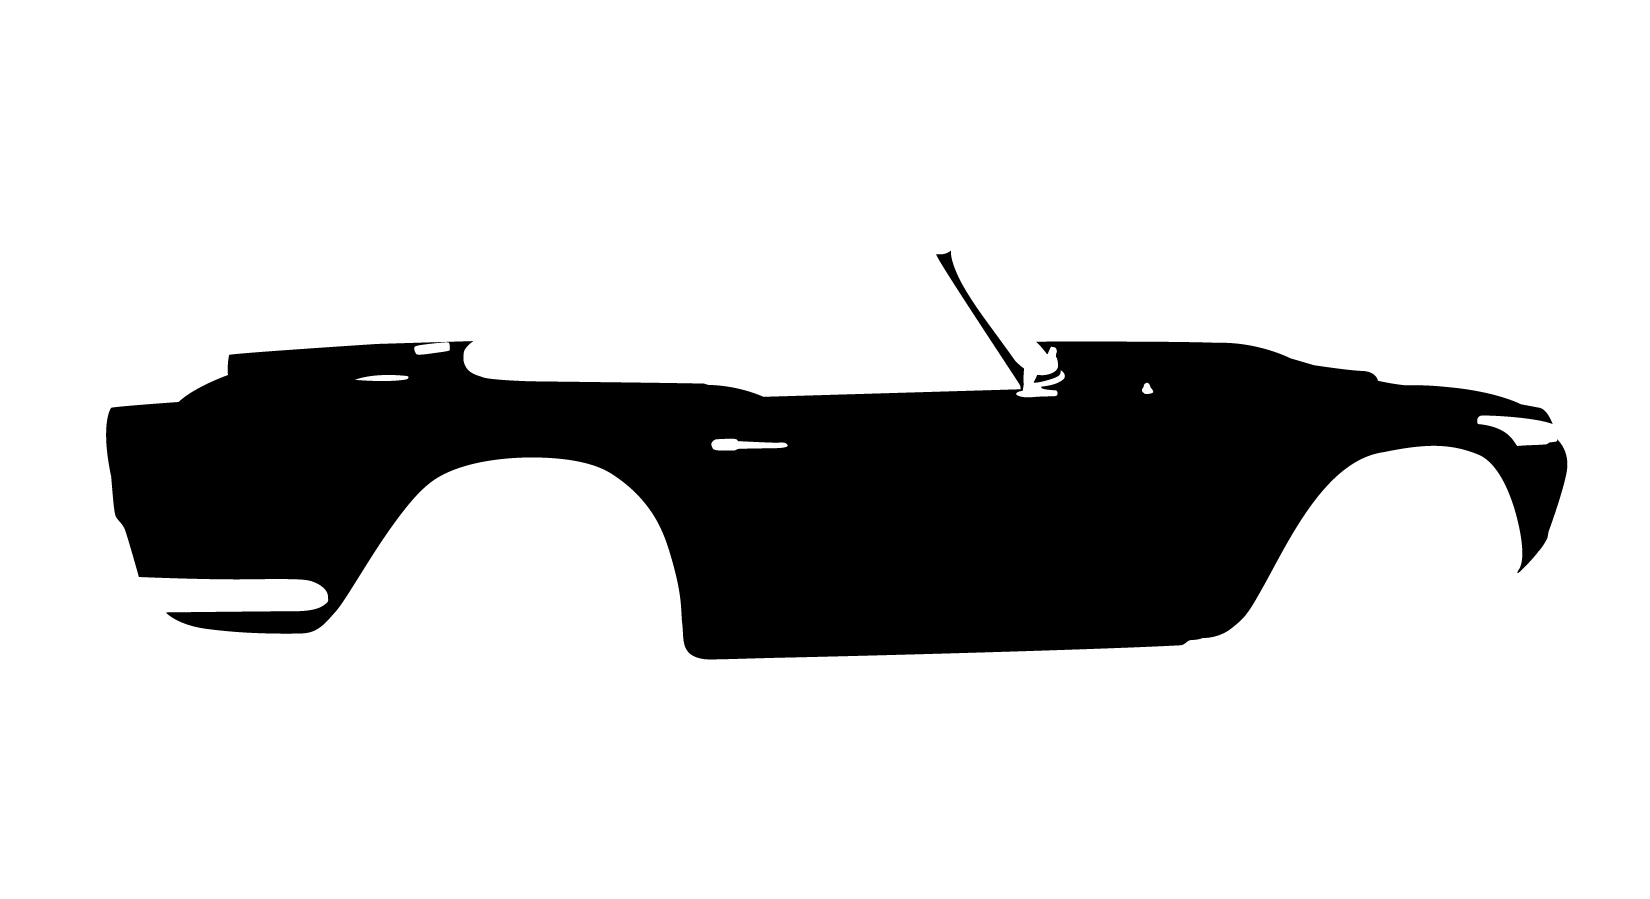
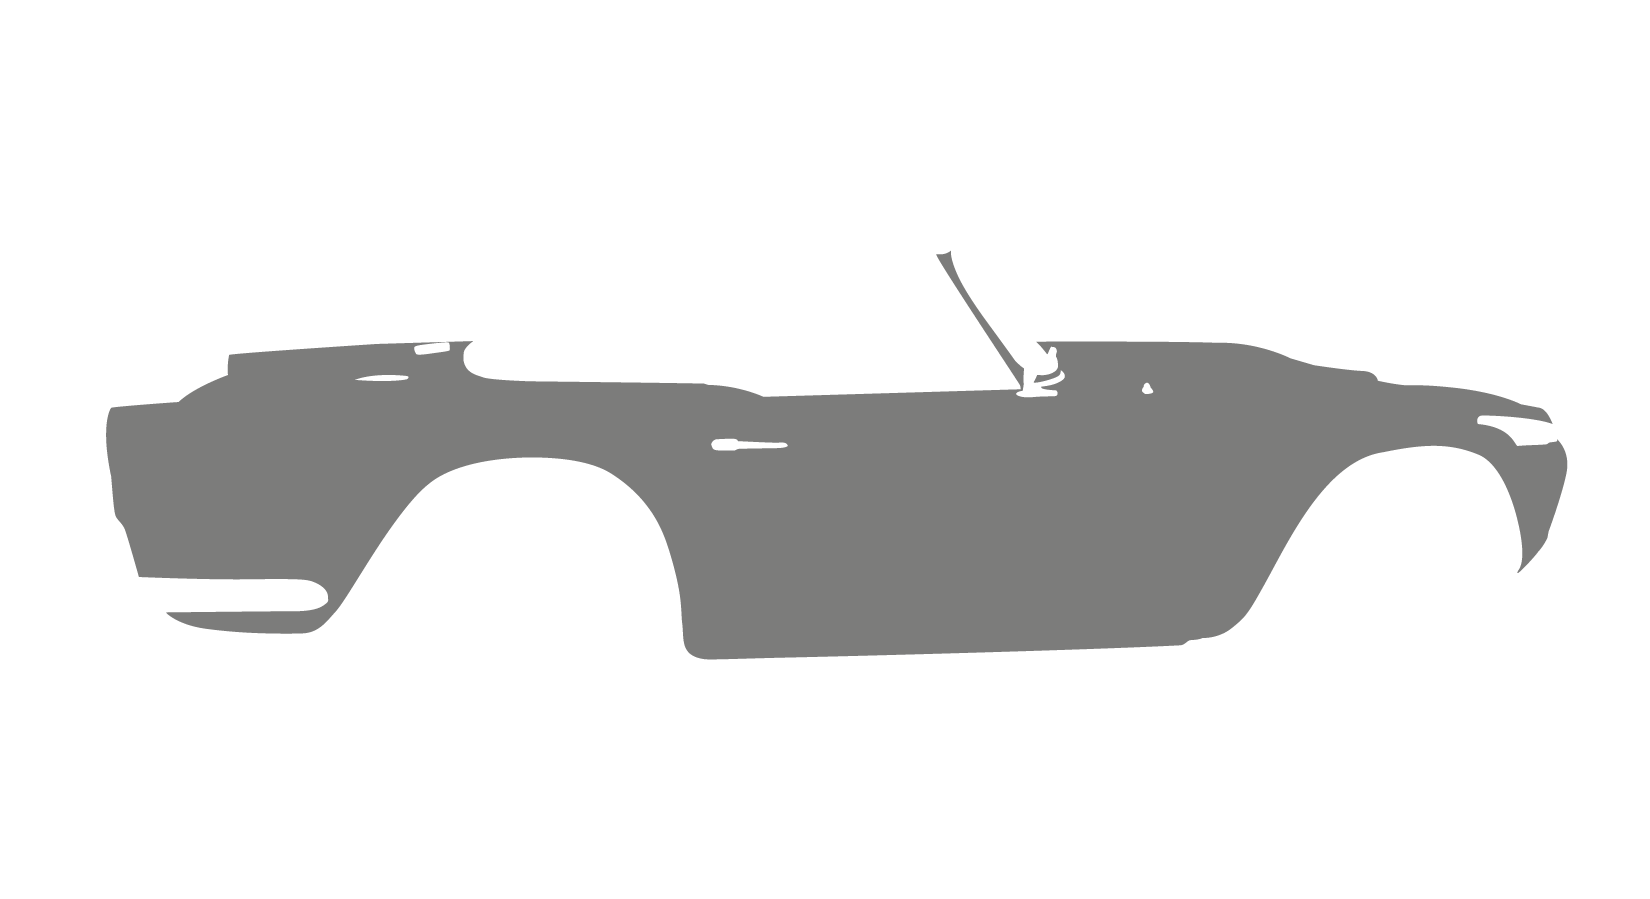
trying to bind against the styles in a control. Angular doesn't seem to understand filter as a css property.

Changed region(s): [[0.0618, 0.3426, 0.9582, 0.7475], [0.5564, 0.2803, 0.5873, 0.3426]]

diff --git a/src/app/app.component.html b/src/app/app.component.html
@@ -1,8 +1,15 @@
 Hello world
 
 <div class="canvas">
-<img class="main" src="assets/tr4a/background.jpg">
-<img class="mask colorised" src="assets/tr4a/mask.svg">
-<!--<img class="mask colorised" src="assets/tr4a/body-mask.png">
-<img class="mask colorised" src="assets/tr4a/body-mask.png">-->
+  <img class="main" src="assets/tr4a/background.jpg">
+  <!--<img class="mask colorised" src="assets/tr4a/mask.svg">-->
+  <img class="mask colorised" [style]='getBodyStyle()' src="assets/tr4a/roof-mask.png">
+  <img class="mask colorised" [style]='getBodyStyle()' src="assets/tr4a/body-mask.png">
+</div>
+
+<div class="slidecontainer">
+  <label>Brightness</label>
+  <input type="range" min="0" max="200" value="100" class="slider" [(ngModel)]="body_brightness" id="brightness">
+  {{body_brightness}}
+  <pre>style: {{getBodyStyle()}}</pre>
 </div>

diff --git a/src/styles.css b/src/styles.css
@@ -9,11 +9,15 @@
   width:100%;
   position:absolute;
   top:0;
-  left:1px;
+  left:0px;
 }
 
-.colorised{
+.deprecated-colorised-with-svg {
   /* these are all trials */
   mix-blend-mode: multiply;
-  filter: sepia(1000) hue-rotate(166deg) brightness(1.4) contrast(1) saturate(1.2) opacity(1); /* wedgewood */
+  filter: sepia(1000) hue-rotate(166deg) brightness(1.4) contrast(1) saturate(1.2) opacity(1); /* wedgewood for svg */
+}
+.deprecated-colorised{
+  mix-blend-mode: overlay;
+  filter: sepia(100) hue-rotate(164deg) brightness(0.8) contrast(1.4) saturate(1) opacity(1);
 }

diff --git a/src/app/app.module.ts b/src/app/app.module.ts
@@ -3,6 +3,7 @@ import { BrowserModule } from '@angular/platform-browser';
 
 import { AppRoutingModule } from './app-routing.module';
 import { AppComponent } from './app.component';
+import { FormsModule } from "@angular/forms";
 
 @NgModule({
   declarations: [
@@ -10,7 +11,8 @@ import { AppComponent } from './app.component';
   ],
   imports: [
     BrowserModule,
-    AppRoutingModule
+    AppRoutingModule,
+    FormsModule
   ],
   providers: [],
   bootstrap: [AppComponent]

diff --git a/src/app/app.component.ts b/src/app/app.component.ts
@@ -7,4 +7,9 @@ import { Component } from '@angular/core';
 })
 export class AppComponent {
   title = 'colouriser';
+  public body_brightness: number = 100;
+
+  getBodyStyle(): string{
+    return 'mix-blend-mode: multiply; font-weight: ' + this.body_brightness + '; filter: brightness: ' + (this.body_brightness) + '%'
+  }
 }
